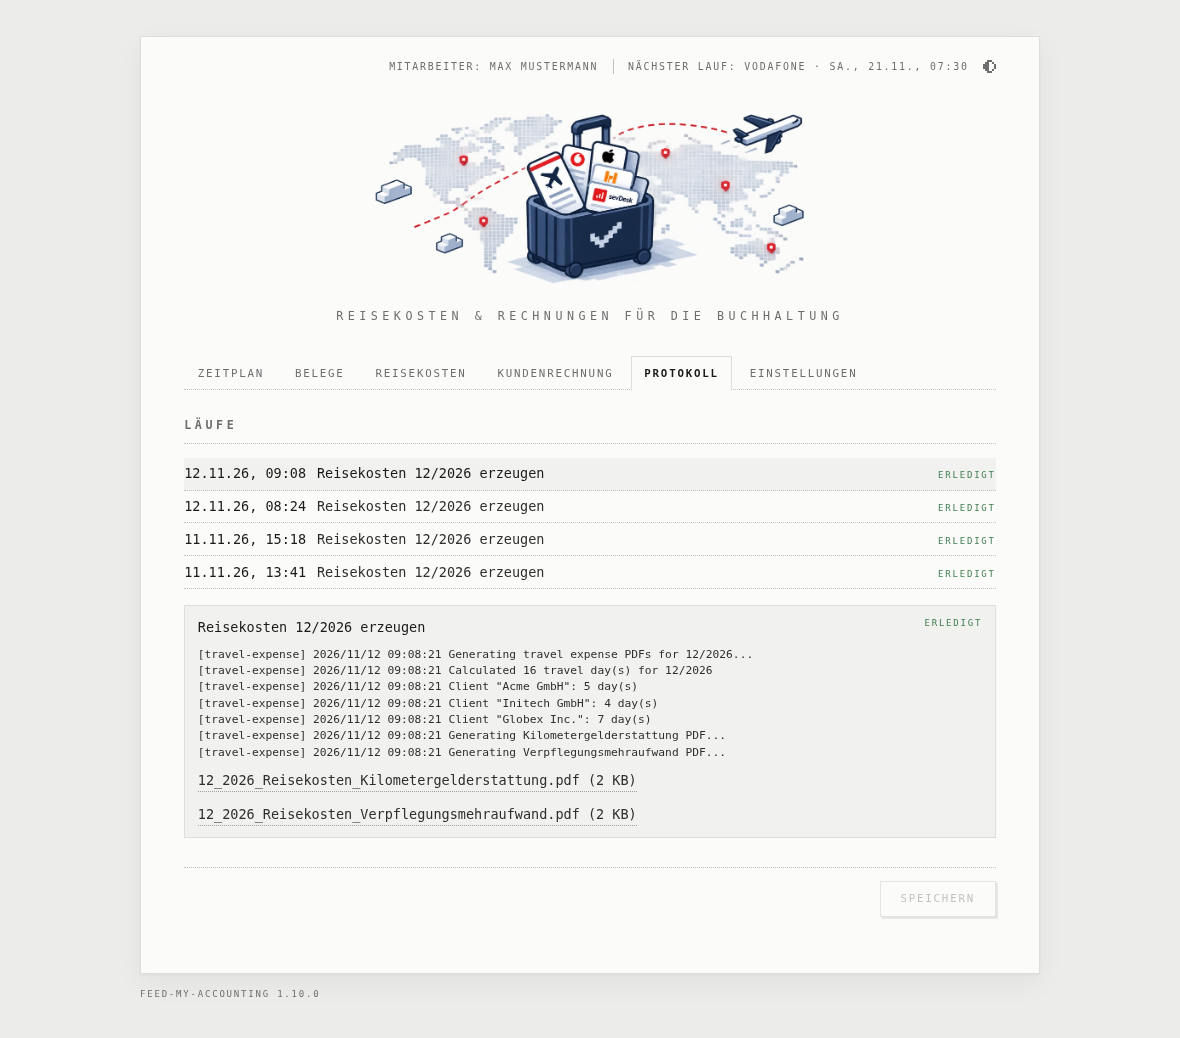
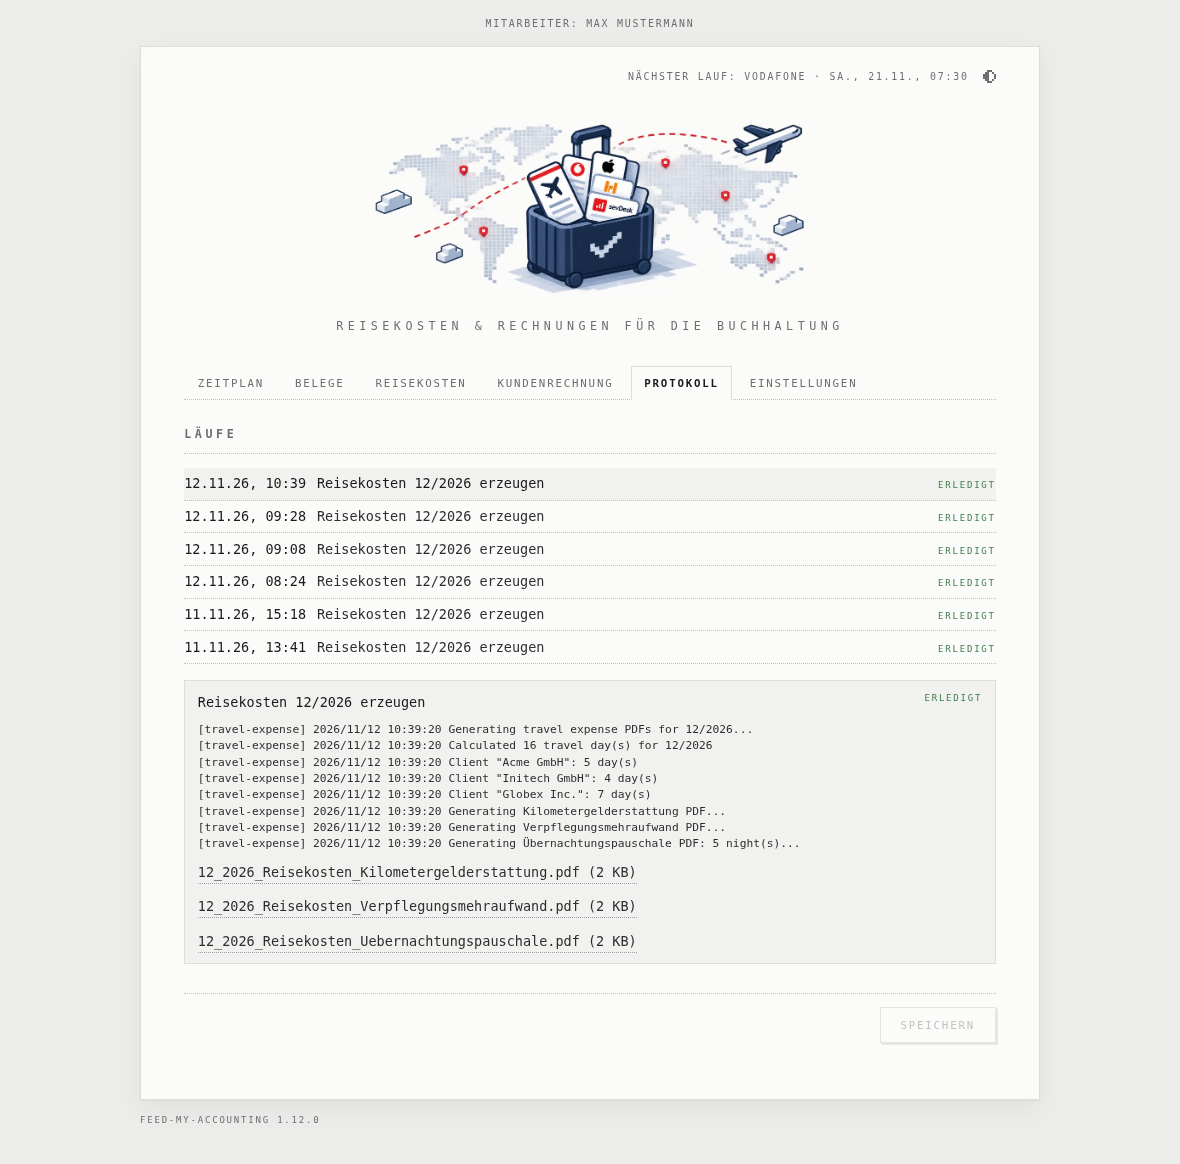
Web interface: the employee and Abmelden above the page, centred
Claude-Session: https://claude.ai/code/session_01FXXeyGX9nkbXjdAycGNCsJ

diff --git a/web/style.css b/web/style.css
@@ -340,7 +340,12 @@ ul.rows.staff li { align-items: center; }
 ul.rows.staff li input[type=radio] { width: auto; margin: 0; }
 
 /* The employee selected, and beside it the next run. */
-#employee { border-right: 1px solid var(--rule); padding-right: 16px; }
+/* Above the page, centred: the employee, and Abmelden beside it, a rule between. */
+.userbar {
+  display: flex; justify-content: center; align-items: center; gap: 14px; margin: -22px 0 16px;
+  font-family: var(--mono); font-size: 11px; letter-spacing: 2px; text-transform: uppercase; color: var(--muted);
+}
+.userbar #logout:not([hidden]) { border-left: 1px solid var(--rule); padding-left: 14px; }
 
 /* The company's logo in the settings: as the work log shows it, on white. */
 /* The logo's card, as sevDesk has it: empty, a button and room to drop a file; with a logo, a
@@ -378,7 +383,8 @@ ul.rows.staff li input[type=radio] { width: auto; margin: 0; }
 
 /* An employee's password beside the name; the logout beside the employee at the top. */
 ul.rows.staff li input.password { width: 15em; flex: none; }
-#logout { padding: 0; font-size: 11px; letter-spacing: 2px; }
+#logout, #logout:hover { padding: 0; font-size: 11px; letter-spacing: 2px; color: var(--muted); }
+#logout:hover { color: var(--headline); }
 /* The login: the masthead, and a small form beneath it. */
 main.login { max-width: 560px; }
 .login-form { display: grid; gap: 14px; max-width: 360px; margin: 10px auto 30px; }

diff --git a/web/index.html b/web/index.html
@@ -9,10 +9,13 @@
   <script src="theme.js"></script>
 </head>
 <body>
+  <!-- Who works here, above the page: the employee, and Abmelden once logged in. -->
+  <div class="userbar" id="userbar" hidden>
+    <span id="employee"></span>
+    <button type="button" id="logout" class="link" hidden>Abmelden</button>
+  </div>
   <main>
     <div class="switch-row">
-      <span id="employee" hidden></span>
-      <button type="button" id="logout" class="link" hidden>Abmelden</button>
       <span id="status" class="status">…</span>
       <button class="theme-switch" id="theme" type="button" aria-label="Hell, dunkel oder wie das System">
         <svg class="theme-icon theme-icon-auto" width="14" height="14" viewBox="0 0 7 7" aria-hidden="true"><path fill="currentColor" d="M2 0h3v1h1v1h1v3H6v1H5v1H2V6H1V5H0V2h1V1h1zM3.5 1v5H5V5h1V2H5V1z"/></svg>

diff --git a/web/app.js b/web/app.js
@@ -98,7 +98,7 @@ async function loadOverview() {
   const status = $('status');
   status.classList.toggle('busy', !!overview.running);
   status.textContent = overview.running ? overview.running.title : nextText(overview.next);
-  $('employee').hidden = !overview.employee;
+  $('userbar').hidden = !overview.employee;
   $('employee').textContent = `Mitarbeiter: ${overview.employee}`;
   for (const p of document.querySelectorAll('[data-last]')) p.textContent = lastText(overview.last[p.dataset.last]);
   for (const span of document.querySelectorAll('[data-mail-to]')) span.textContent = mailTo();

diff --git a/CHANGELOG.md b/CHANGELOG.md
@@ -7,6 +7,10 @@ and this project adheres to [Semantic Versioning](https://semver.org/spec/v2.0.0
 
 ## [Unreleased]
 
+### Changed
+
+- Web interface: the employee — and *Abmelden*, once logged in — sits centred above the page, no longer in its corner.
+
 ### Added
 
 - Web interface: **logging in**. Every employee can have a password (Einstellungen › Mitarbeiter, kept as a bcrypt hash in `staff.logins`); as soon as one has, the page asks for a login — at home just the employee, from outside the employee and their password. Sessions of 30 days in a cookie scripts cannot read, Secure over HTTPS, SameSite strict; five failed logins lock an address for 15 minutes; changing calls only from the page itself; security headers (CSP, no framing). *Abmelden* at the top.
